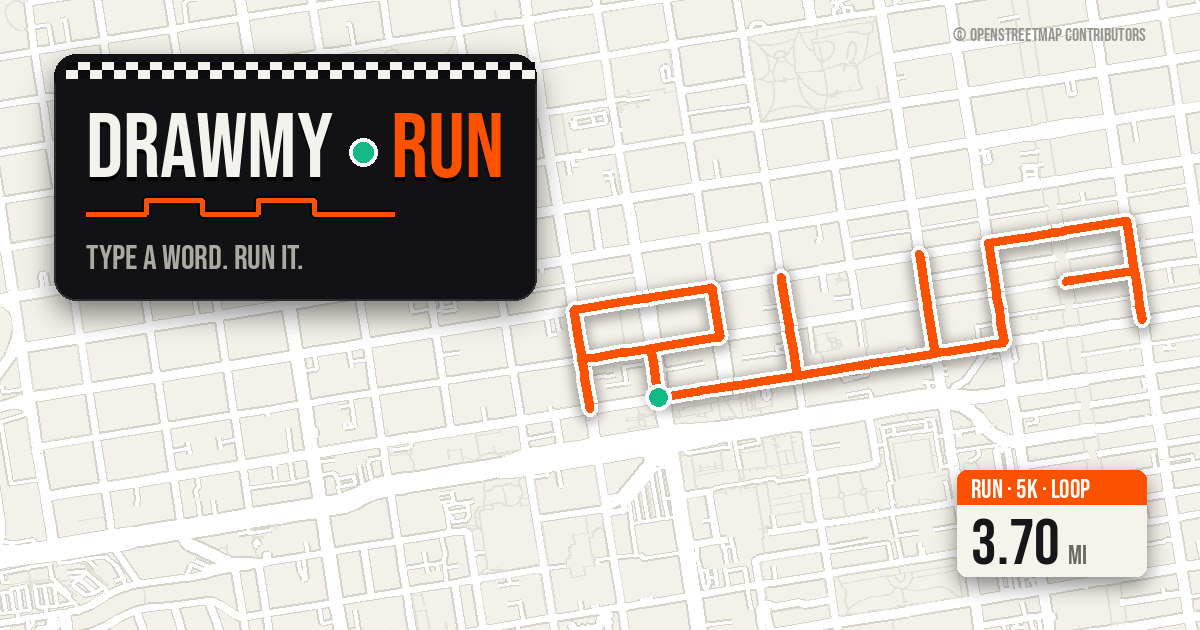
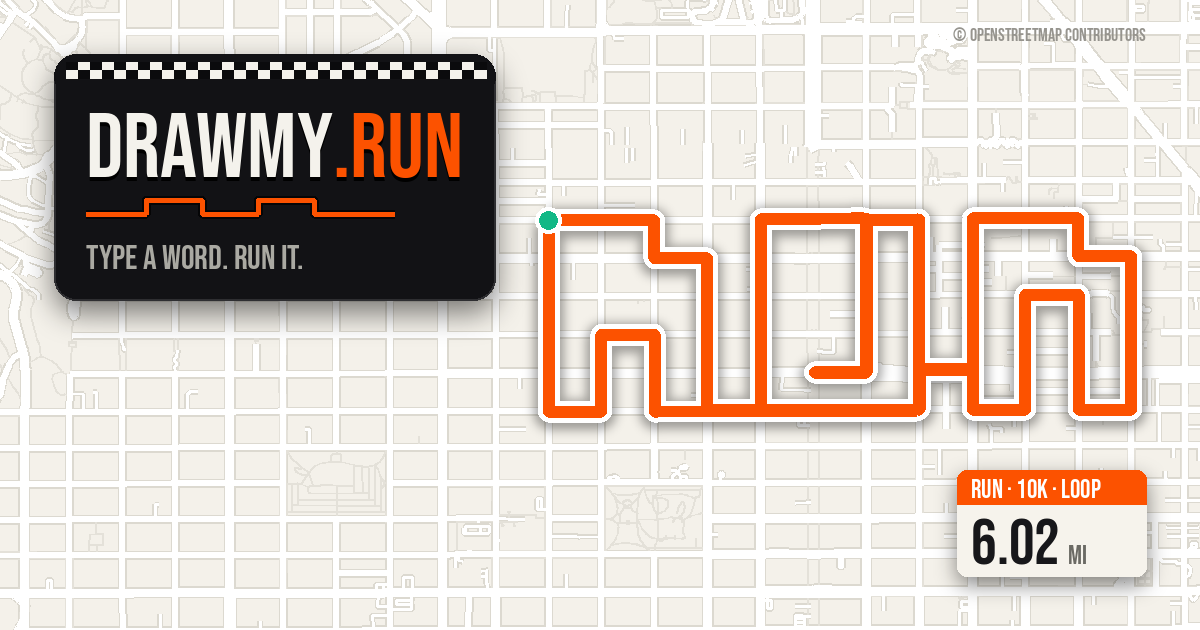
The share card reads RUN: block letters on a 10K, the map turned to its grid, and a real period in the wordmark
The card's run is now a 6 mile 10K in block letters through Pacific
Heights (Filbert & Buchanan), which reads as RUN at a glance where the
5K's line letters did not, and the map is turned to the street grid (by
the angle that lines the route's streets up with the card's edges, within
a quarter turn) so the letters stand upright. The route is bolder and the
streets lighter. The bib in the corner names the distance and the 10K.

The wordmark, on the card and on the site, is drawmy.run with a real
period again: DRAWMY in white, .RUN in orange. The start-marker dot
stood in for it and read as decoration.

Claude-Session: https://claude.ai/code/session_01Dmg3qgF2RMqA8VqrgFUq5h

Changed region(s): [[0.0, 0.0, 1.0, 1.0], [0.0, 0.1508, 0.0617, 0.181]]

diff --git a/web/src/app/globals.css b/web/src/app/globals.css
@@ -66,8 +66,8 @@ body {
   background: linear-gradient(180deg, #000 0, #000 50%, rgba(255, 255, 255, 0.08) 50%);
 }
 
-/* The wordmark: enamel capitals with a lip of shadow, the dot a start
-   marker, and under it a route drawn in along the streets. */
+/* The wordmark: drawmy.run in enamel capitals with a lip of shadow, the
+   .run in orange, and under it a route drawn in along the streets. */
 .logo {
   display: inline-block;
   font-size: 2.2rem;
@@ -93,15 +93,6 @@ body {
 }
 .logo-run {
   background-image: linear-gradient(180deg, #ffb787 0%, #ff7f3b 46%, #e34800 54%, #ff6a1f 100%);
-}
-.logo-dot {
-  align-self: center;
-  width: 0.3em;
-  height: 0.3em;
-  margin: 0.14em 0.1em 0;
-  border-radius: 50%;
-  background: #12b886;
-  box-shadow: 0 0 0 0.08em #fff, 0 1px 2px rgba(0, 0, 0, 0.7), 0 0 0.45em rgba(18, 184, 134, 0.6);
 }
 .logo-trace {
   display: block;

diff --git a/web/src/components/RunMapper.tsx b/web/src/components/RunMapper.tsx
@@ -504,8 +504,7 @@ export default function RunMapper() {
             <h1 className="logo font-display" aria-label="drawmy.run">
               <span className="logo-word" aria-hidden="true">
                 <span className="logo-draw">DRAWMY</span>
-                <span className="logo-dot" />
-                <span className="logo-run">RUN</span>
+                <span className="logo-run">.RUN</span>
               </span>
               <svg className="logo-trace" viewBox="0 0 160 12" aria-hidden="true" preserveAspectRatio="none">
                 <path className="logo-trace-case" d="M2 10h26V2h22v8h24V2h22v8h24V2h20" />
